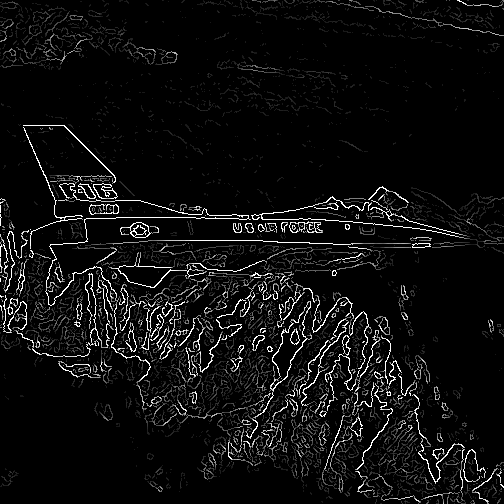
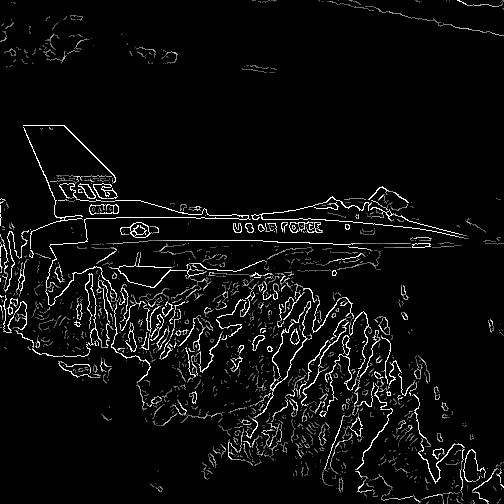
Updated doubleThreshold
Now uses automatic determination of threshold values. Still fixing
hysteresis (has issues)

diff --git a/sources/canny.c b/sources/canny.c
@@ -8,6 +8,9 @@
 #include <stdio.h>
 #include <string.h>
 
+unsigned HIGH_THRESH = 200;
+unsigned LOW_THRESH = 25;
+
 int isNotMax(int leftNeighbor, int pixel, int rightNeighbor); /*returns 1 if pixel is not max, 0 otherwise*/
 
 int * edgeDirection(int* horizGx, int * vertGy, int width, int height)
@@ -135,7 +138,7 @@ int isNotMax(int leftNeighbor, int pixel, int rightNeighbor)
     return 0;
 }
 
-void doubleThreshold(unsigned char * image8, int * magnitude, int *width, int *height)
+void doubleThreshold(unsigned char * image8, int *width, int *height)
 {
     int magIndex = *width + 1;
     int imageIndex = 0;
@@ -147,6 +150,8 @@ void doubleThreshold(unsigned char * image8, int * magnitude, int *width, int *h
             val = image8[magIndex];
             if (val <= LOW_THRESH)
                 val = 0;
+            else
+                val = 255;
 //            if (val >= HIGH_THRESH)
 //                val = 255;
             image8[imageIndex] = val;
@@ -159,8 +164,68 @@ void doubleThreshold(unsigned char * image8, int * magnitude, int *width, int *h
     *height = *height - 2;
 }
 
+void hysteresis(unsigned char * image8, int *width, int *height)
+{
+    int * magnitude = (int*) malloc((*width)*(*height)*4);
+
+
+    int val;
+    //Sets high threshold to 255
+    for (int i = 0; i < (*width)*(*height); i++)
+    {
+        if (image8[i] >= 0)
+            magnitude[i] = 255;
+        else
+            magnitude[i] = 0;
+    }
+
+    int magIndex = *width + 1;
+    int imageIndex = 0;
+
+    for (int row = 1; row < *height-1; row++)
+    {
+        for (int col = 1; col < *width-1; col++)
+        {
+            val = image8[magIndex];
+            if (val < HIGH_THRESH && val != 0)
+            {
+                if (magnitude[magIndex-1] == 255 || magnitude[magIndex-(*width)-1] == 255 || magnitude[magIndex-(*width)] == 255
+                        || magnitude[magIndex-(*width)+1] == 255 || magnitude[magIndex+1] == 255 || magnitude[magIndex+(*width)+1] == 255
+                        || magnitude[magIndex+(*width)] == 255 || magnitude[magIndex+(*width)-1] == 255)
+                {
+                    val = 255;
+                }
+                else
+                    val = 0;
+            }
+            image8[imageIndex] = val;
+            magIndex++;
+            imageIndex++;
+        }
+        magIndex += 2;
+    }
+    *width = *width - 2;
+    *height = *height - 2;
+}
+
+unsigned char averagePixel(unsigned char * image8, unsigned width, unsigned height)
+{
+    unsigned sum = 0;
+    for (int i = 0; i < width*height; i++)
+    {
+        sum += image8[i];
+    }
+    sum /= (width*height);
+    return (unsigned char) sum;
+}
+
 void detectEdgeCanny(unsigned char * image8, unsigned char * tempBuf, int *width, int *height)
 {
+    unsigned char avg = averagePixel(image8, *width, *height);
+    avg = 2*avg/4;
+    printf("%d\n", avg);
+    LOW_THRESH = 84 * avg / 64;
+    HIGH_THRESH = 42 * avg / 64;
     gaussBlur5x5(image8, tempBuf, width, height); //Apply Gaussian smoothing
     int * Gx = sobelHoriz(image8, width, height); //x-direction gradient from Sobel filter
     int * Gy = sobelVert(image8, width, height); //y-direction gradient from Sobel filter
@@ -169,7 +234,7 @@ void detectEdgeCanny(unsigned char * image8, unsigned char * tempBuf, int *width
     int * direction = edgeDirection(Gx, Gy, *width, *height); //buffer stores direction of gradient
     int * magnitude = edgeMagnitude(Gx, Gy, *width, *height); //buffer stores magnitude of gradient
     nonMaxSuppress(image8, magnitude, direction, *width, *height); //Apply non-maximum suppression
-    doubleThreshold(image8, direction, width, height); //Apply double thresholding
+    doubleThreshold(image8, width, height); //Apply double thresholding
 
     free(Gx);
     free(Gy);

diff --git a/includes/canny.h b/includes/canny.h
@@ -8,8 +8,7 @@
 #ifndef IMAGEPROCESSING_CANNY_H
 #define IMAGEPROCESSING_CANNY_H
 
-#define HIGH_THRESH 155
-#define LOW_THRESH 22
+
 #define PI 3.1415926
 
 /*
@@ -35,7 +34,14 @@ void nonMaxSuppress(unsigned char * image8, int * magnitude, int * direction, in
  * Filters out non-edges (below threshold).
  * Reduces height and width by 2, removes border.
  */
-void doubleThreshold(unsigned char * image8, int * magnitude, int *width, int *height);
+void doubleThreshold(unsigned char * image8, int *width, int *height);
+
+void hysteresis(unsigned char * image8, int *width, int *height);
+
+/*
+ * Returns average of edge values after NMS.
+ */
+unsigned char averagePixel(unsigned char * image8, unsigned width, unsigned height);
 
 /*
  * Uses Canny's algorithm for edge detection.

diff --git a/main.c b/main.c
@@ -88,7 +88,6 @@ int main(int argc, char *argv[])
 
     /* Perform image processing here********************************************/
     grayscale(image32, image8, width, height);
-
     //decimate(image8, &width, &height);
     detectEdgeCanny(image8, tempBuf, &width, &height);
     //dilate(image8, tempBuf, width, height);

diff --git a/includes/preproc.h b/includes/preproc.h
@@ -72,6 +72,8 @@ int * sobelHoriz(unsigned char * image8, unsigned * width, unsigned * height);
 
 int * sobelVert(unsigned char * image8, unsigned * width, unsigned * height);
 
+
+
 void avgPool();
 
 

diff --git a/sources/preproc.c b/sources/preproc.c
@@ -295,3 +295,4 @@ int * sobelVert(unsigned char * image8, unsigned * width, unsigned * height)
     }
     return Gy;
 }
+
